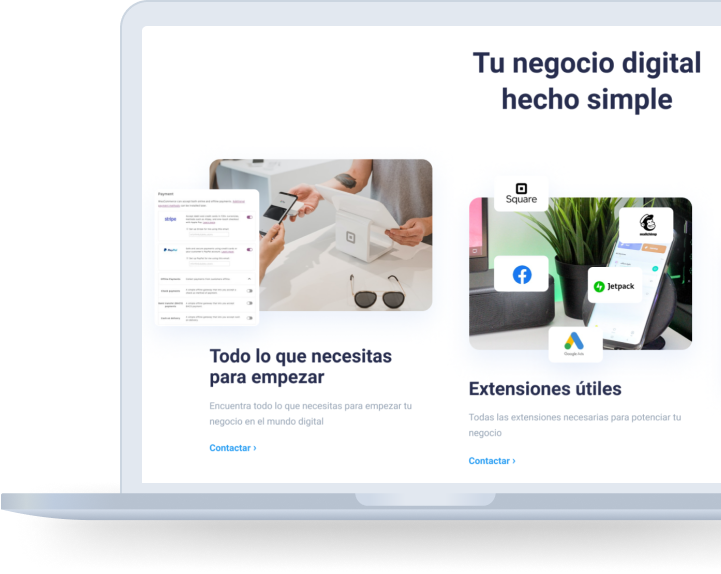
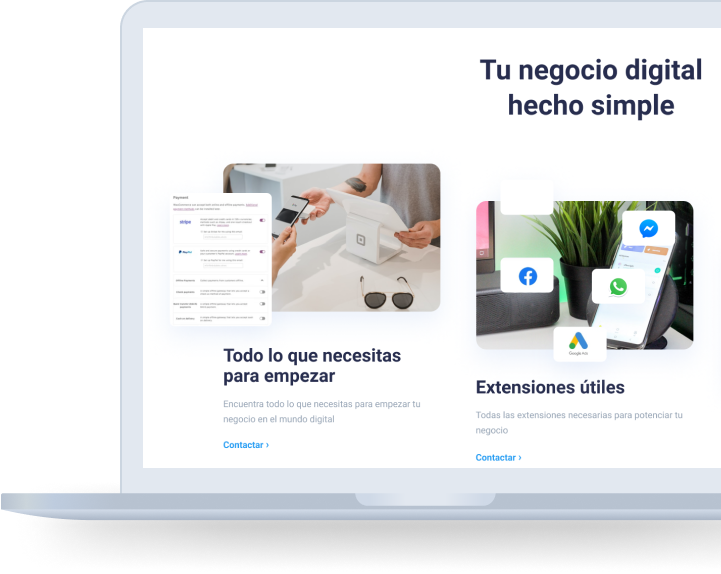
minor changes

diff --git a/src/style.css b/src/style.css
@@ -327,7 +327,7 @@ header>ul>li>a:hover {
 
 .ofrecemos_section_img {
     width: 60%;
-    padding: 4% 0 0 0;
+    padding: 1% 0 0 0;
 }
 
 .ofrecemos_section_img>img {
